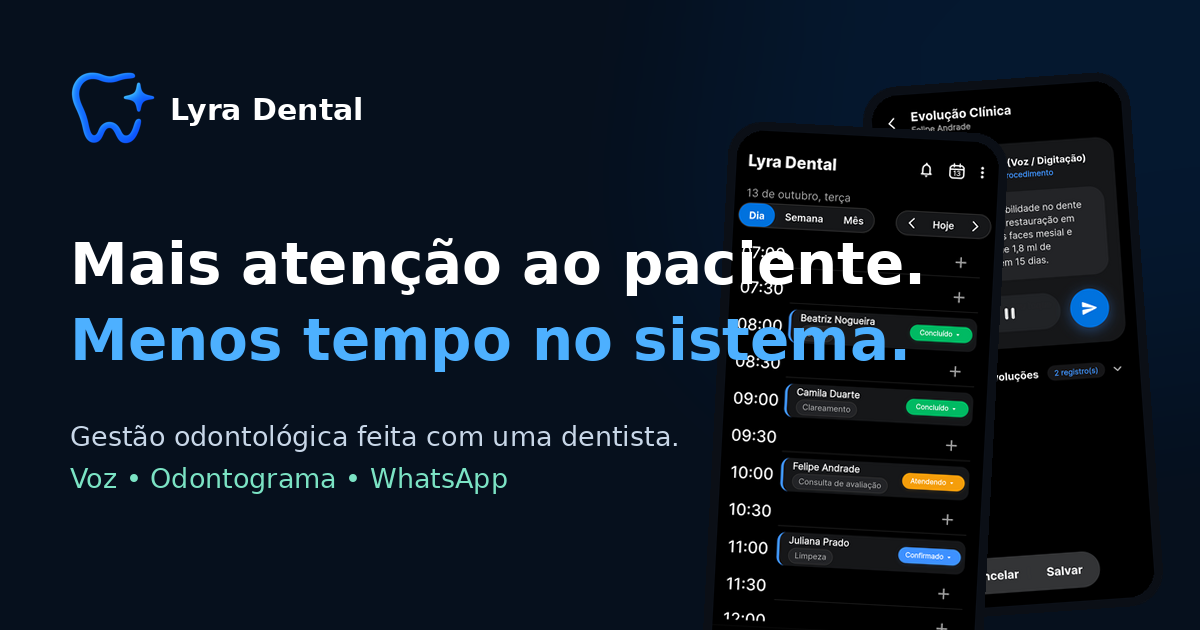
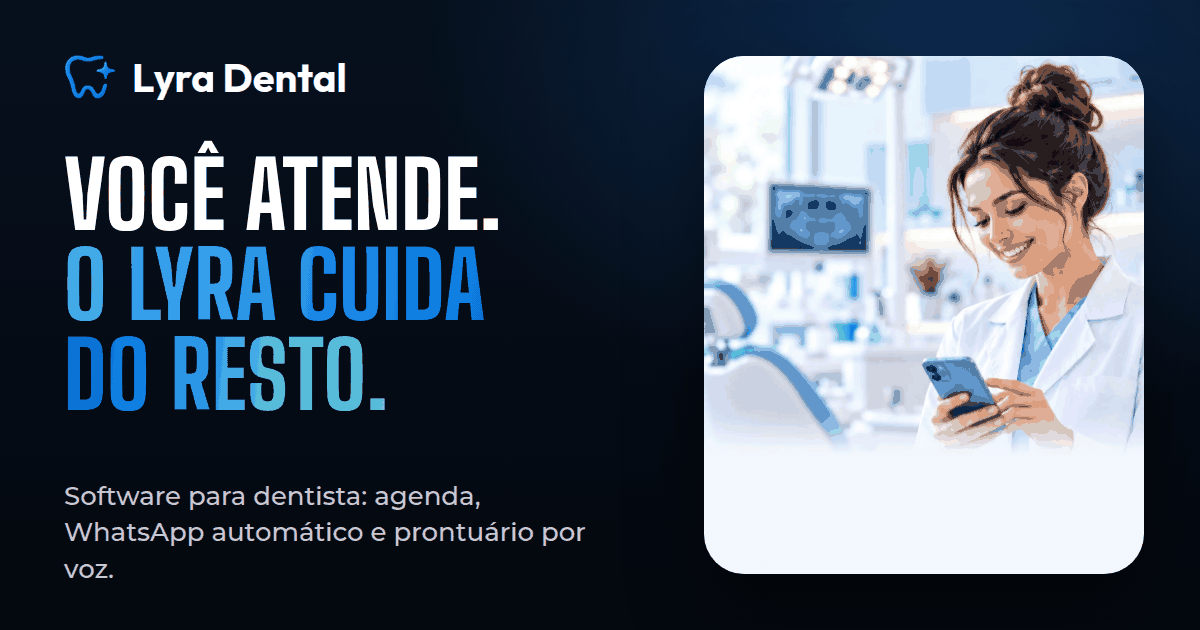
feat(landing): topo no padrão do app, carrossel das telas, textos para busca, imagem de compartilhamento e medição sem cookies

diff --git a/landing/index.html b/landing/index.html
@@ -3,12 +3,12 @@
 <head>
   <meta charset="utf-8" />
   <meta name="viewport" content="width=device-width, initial-scale=1" />
-  <title>Lyra Dental — Gestão odontológica feita com uma dentista</title>
-  <meta name="description" content="Agenda, prontuário, odontograma por voz e WhatsApp que responde por você. O Lyra Dental foi pensado por quem atende todos os dias no consultório." />
+  <title>Software para dentista com agenda e WhatsApp | Lyra Dental</title>
+  <meta name="description" content="App e software para dentista e clínicas odontológicas: agenda inteligente, WhatsApp automático e prontuário por voz. Gestão feita com uma dentista." />
   <meta name="theme-color" content="#06101d" />
   <meta property="og:type" content="website" />
-  <meta property="og:title" content="Lyra Dental — Gestão odontológica feita com uma dentista" />
-  <meta property="og:description" content="Mais atenção ao paciente, menos tempo no sistema. Registre a evolução falando e deixe o WhatsApp da clínica trabalhando por você." />
+  <meta property="og:title" content="Software para dentista com agenda e WhatsApp | Lyra Dental" />
+  <meta property="og:description" content="Você atende. O Lyra cuida do resto: agenda inteligente, WhatsApp automático e evolução clínica por voz, para dentistas e clínicas." />
   <link rel="canonical" href="https://www.getlyra.com.br/" />
   <meta property="og:url" content="https://www.getlyra.com.br/" />
   <meta property="og:locale" content="pt_BR" />
@@ -18,8 +18,9 @@
   <meta property="og:image:height" content="630" />
   <meta name="twitter:card" content="summary_large_image" />
   <meta name="twitter:image" content="https://www.getlyra.com.br/img/og.png" />
-  <script type="application/ld+json">{"@context": "https://schema.org", "@type": "SoftwareApplication", "name": "Lyra Dental", "applicationCategory": "BusinessApplication", "operatingSystem": "Android, Web", "description": "Agenda, prontuário, odontograma por voz e WhatsApp para clínicas odontológicas.", "url": "https://www.getlyra.com.br/", "inLanguage": "pt-BR"}</script>
+  <script type="application/ld+json">{"@context": "https://schema.org", "@type": "SoftwareApplication", "name": "Lyra Dental", "applicationCategory": "BusinessApplication", "operatingSystem": "Android, Web", "applicationSubCategory": "Software de gestão para dentistas e clínicas odontológicas", "description": "Software e app para dentista: agenda inteligente, WhatsApp automático, odontograma por voz e prontuário para clínicas odontológicas.", "url": "https://www.getlyra.com.br/", "inLanguage": "pt-BR"}</script>
   <link rel="icon" type="image/png" href="img/logo-icon.png" />
+  <link rel="preload" as="image" href="img/lyra-dentista.webp" fetchpriority="high" />
   <link rel="stylesheet" href="fonts.css" />
   <link rel="stylesheet" href="styles.css" />
 </head>
@@ -59,8 +60,8 @@
       <div class="container hero-grid">
         <div class="hero-copy reveal">
           <span class="selo"><i class="dot"></i> Pensado por dentista, para dentistas</span>
-          <h1 id="hero-titulo">Mais atenção ao paciente.<br /><span class="grad">Menos tempo no sistema.</span></h1>
-          <p class="lead">Registre a evolução e marque o odontograma <strong>falando</strong>, e deixe o WhatsApp da clínica confirmar horários e responder as dúvidas comuns. O Lyra foi feito com uma dentista, no consultório de verdade.</p>
+          <h1 id="hero-titulo">Você atende.<br /><span class="grad">O Lyra cuida do resto.</span></h1>
+          <p class="lead">Agenda, WhatsApp automático e prontuário por voz, em um só lugar. O Lyra foi feito com uma dentista, no consultório de verdade.</p>
           <div class="hero-cta">
             <a class="btn btn-lg" data-wa="Olá! Quero conhecer o Lyra Dental." href="#" target="_blank" rel="noopener">Quero conhecer o Lyra</a>
             <a class="btn btn-ghost btn-lg" href="#voz">Ver como funciona</a>
@@ -72,16 +73,24 @@
           </ul>
         </div>
 
-        <div class="hero-devices" aria-hidden="false">
-          <div class="phone phone-back parallax" data-speed="0.05">
-            <img src="img/app-voz.webp" alt="Tela de evolução clínica por voz do Lyra" width="640" height="1325" />
-          </div>
-          <div class="phone phone-front parallax" data-speed="0.12">
-            <img src="img/app-agenda.webp" alt="Agenda do Lyra no celular" width="640" height="1325" />
-          </div>
-          <div class="chip chip-voz"><span class="wave" aria-hidden="true"><i></i><i></i><i></i><i></i><i></i></span> “dente 16, restauração”</div>
-          <div class="chip chip-wa"><span class="ok">✓✓</span> Horário confirmado</div>
+        <div class="cena reveal" style="--d:.1s">
+          <img class="cena-foto" fetchpriority="high" decoding="async" src="img/lyra-dentista.webp" alt="Dentista sorrindo enquanto usa o Lyra no celular, em um consultório moderno" width="480" height="717" />
+          <span class="cena-chip c1"><svg viewBox="0 0 24 24" fill="none" stroke="#1F6BF2" stroke-width="2.4" stroke-linecap="round" stroke-linejoin="round" aria-hidden="true"><rect x="3.5" y="5" width="17" height="15.5" rx="3"/><path d="M8 2.8v4M16 2.8v4M8 13l2.6 2.6L16 10.5"/></svg></span>
+          <span class="cena-chip c2"><svg viewBox="0 0 24 24" fill="#25C060" aria-hidden="true"><path d="M17.472 14.382c-.297-.149-1.758-.867-2.03-.967-.273-.099-.471-.148-.67.15-.197.297-.767.966-.94 1.164-.173.199-.347.223-.644.075-.297-.15-1.255-.463-2.39-1.475-.883-.788-1.48-1.761-1.653-2.059-.173-.297-.018-.458.13-.606.134-.133.298-.347.446-.52.149-.174.198-.298.298-.497.099-.198.05-.371-.025-.52-.075-.149-.669-1.612-.916-2.207-.242-.579-.487-.5-.669-.51-.173-.008-.371-.01-.57-.01-.198 0-.52.074-.792.372-.272.297-1.04 1.016-1.04 2.479 0 1.462 1.065 2.875 1.213 3.074.149.198 2.096 3.2 5.077 4.487.709.306 1.262.489 1.694.625.712.227 1.36.195 1.871.118.571-.085 1.758-.719 2.006-1.413.248-.694.248-1.289.173-1.413-.074-.124-.272-.198-.57-.347m-5.421 7.403h-.004a9.87 9.87 0 01-5.031-1.378l-.361-.214-3.741.982.998-3.648-.235-.374a9.86 9.86 0 01-1.51-5.26c.001-5.45 4.436-9.884 9.888-9.884 2.64 0 5.122 1.03 6.988 2.898a9.825 9.825 0 012.893 6.994c-.003 5.45-4.437 9.884-9.885 9.884m8.413-18.297A11.815 11.815 0 0012.05 0C5.495 0 .16 5.335.157 11.892c0 2.096.547 4.142 1.588 5.945L0 24l6.335-1.662c1.72.94 3.659 1.437 5.634 1.437h.005c6.554 0 11.89-5.335 11.893-11.893a11.821 11.821 0 00-3.48-8.413z"/></svg></span>
+          <span class="cena-chip c3"><svg viewBox="0 0 24 24" fill="none" stroke="#1F6BF2" stroke-width="2.2" stroke-linecap="round" stroke-linejoin="round" aria-hidden="true"><path d="M7 3C4.7 3 3 4.9 3 8.1c0 3.4 1.3 6.2 2.2 9.8.7 2.7 2.4 3 3.5.8 1-2 1.7-5.7 3.3-5.7s2.3 3.7 3.3 5.7c1.1 2.2 2.8 1.9 3.5-.8.9-3.6 2.2-6.4 2.2-9.8C21 4.9 19.3 3 17 3c-2 0-3.1 1.4-3.8 2-.7-.6-1.9-2-3.8-2H7Z"/></svg></span>
+          <span class="cena-audio" aria-hidden="true"><b><svg viewBox="0 0 24 24"><path fill="#fff" d="M7 4.5v15a1 1 0 001.5.9l12-7.5a1 1 0 000-1.7l-12-7.5A1 1 0 007 4.5z"/></svg></b><span class="barras"><i style="height:5px"></i><i style="height:10px"></i><i style="height:15px"></i><i style="height:8px"></i><i style="height:13px"></i><i style="height:18px"></i><i style="height:11px"></i><i style="height:6px"></i><i style="height:14px"></i><i style="height:9px"></i><i style="height:5px"></i></span><small>0:16</small></span>
         </div>
+      </div>
+
+      <div class="container destaques" aria-label="O que o Lyra faz por você">
+        <article class="dest"><span class="dest-ico verde"><svg viewBox="0 0 24 24" fill="#fff" aria-hidden="true"><path d="M17.472 14.382c-.297-.149-1.758-.867-2.03-.967-.273-.099-.471-.148-.67.15-.197.297-.767.966-.94 1.164-.173.199-.347.223-.644.075-.297-.15-1.255-.463-2.39-1.475-.883-.788-1.48-1.761-1.653-2.059-.173-.297-.018-.458.13-.606.134-.133.298-.347.446-.52.149-.174.198-.298.298-.497.099-.198.05-.371-.025-.52-.075-.149-.669-1.612-.916-2.207-.242-.579-.487-.5-.669-.51-.173-.008-.371-.01-.57-.01-.198 0-.52.074-.792.372-.272.297-1.04 1.016-1.04 2.479 0 1.462 1.065 2.875 1.213 3.074.149.198 2.096 3.2 5.077 4.487.709.306 1.262.489 1.694.625.712.227 1.36.195 1.871.118.571-.085 1.758-.719 2.006-1.413.248-.694.248-1.289.173-1.413-.074-.124-.272-.198-.57-.347m-5.421 7.403h-.004a9.87 9.87 0 01-5.031-1.378l-.361-.214-3.741.982.998-3.648-.235-.374a9.86 9.86 0 01-1.51-5.26c.001-5.45 4.436-9.884 9.888-9.884 2.64 0 5.122 1.03 6.988 2.898a9.825 9.825 0 012.893 6.994c-.003 5.45-4.437 9.884-9.885 9.884m8.413-18.297A11.815 11.815 0 0012.05 0C5.495 0 .16 5.335.157 11.892c0 2.096.547 4.142 1.588 5.945L0 24l6.335-1.662c1.72.94 3.659 1.437 5.634 1.437h.005c6.554 0 11.89-5.335 11.893-11.893a11.821 11.821 0 00-3.48-8.413z"/></svg></span><div><h3>WhatsApp automático</h3><p>Confirmações, lembretes e pós-consulta automáticos, mesmo com você atendendo.</p></div></article>
+        <article class="dest"><span class="dest-ico"><svg viewBox="0 0 24 24" fill="none" stroke="#fff" stroke-width="2.4" stroke-linecap="round" stroke-linejoin="round" aria-hidden="true"><rect x="3.5" y="5" width="17" height="15.5" rx="3"/><path d="M8 2.8v4M16 2.8v4"/></svg></span><div><h3>Agenda inteligente</h3><p>Visualize, organize e gerencie sua agenda de forma rápida e intuitiva.</p></div></article>
+        <article class="dest"><span class="dest-ico"><img src="img/lyra-dentes.png" alt="" width="240" height="143" loading="lazy" /></span><div><h3>Odontograma por voz</h3><p>Marque dentes e procedimentos só falando, sem tirar as luvas. Histórico completo, visual e simples.</p></div></article>
+        <article class="dest"><span class="dest-ico"><svg viewBox="0 0 24 24" fill="#fff" aria-hidden="true"><rect x="3" y="10" width="2.6" height="4" rx="1.3"/><rect x="7.2" y="6" width="2.6" height="12" rx="1.3"/><rect x="11.4" y="3" width="2.6" height="18" rx="1.3"/><rect x="15.6" y="7" width="2.6" height="10" rx="1.3"/><rect x="19.8" y="10.5" width="2.2" height="3" rx="1.1"/></svg></span><div><h3>Evolução com IA</h3><p>Fale e a IA transforma sua voz em evolução clínica completa e organizada.</p></div></article>
+      </div>
+
+      <div class="container beneficios">
+        <span>Desenvolvido por dentistas</span><span>Dados protegidos</span><span>Suporte pelo WhatsApp</span>
       </div>
     </section>
 
@@ -164,7 +173,7 @@
           <p class="nota nota-wa">Exemplo ilustrativo de conversa.</p>
         </div>
         <div class="reveal" style="--d:.1s">
-          <span class="eyebrow">WhatsApp inteligente</span>
+          <span class="eyebrow">Automação de agenda e WhatsApp</span>
           <h2 id="wa-titulo">Uma clínica que responde,<br />mesmo quando você está atendendo.</h2>
           <p class="lead">Cadastre horários, endereço, convênios e formas de pagamento. O Lyra usa os dados da sua clínica para responder as perguntas mais comuns e chama a sua equipe quando precisa de uma pessoa.</p>
           <ul class="checks">
@@ -181,7 +190,7 @@
     <section class="secao" id="recursos" aria-labelledby="rec-titulo">
       <div class="container">
         <div class="titulo-centro reveal">
-          <span class="eyebrow">Tudo conectado</span>
+          <span class="eyebrow">Software de gestão para clínicas</span>
           <h2 id="rec-titulo">Da primeira mensagem ao prontuário.</h2>
           <p class="lead">Uma visão completa da clínica, sem menus intermináveis e sem perder tempo procurando informação.</p>
         </div>
@@ -197,12 +206,17 @@
           <button type="button" data-tema="escuro" aria-pressed="true">Escuro</button>
           <button type="button" data-tema="claro" aria-pressed="false">Claro</button>
         </div>
-        <div class="telas reveal" id="telas" aria-label="Telas do aplicativo">
+        <div class="carrossel reveal" role="region" aria-roledescription="carrossel" aria-label="Telas do aplicativo">
+          <button class="car-btn prev" type="button" aria-label="Tela anterior"><svg viewBox="0 0 24 24" aria-hidden="true"><path d="M15 5l-7 7 7 7" fill="none" stroke="currentColor" stroke-width="2.6" stroke-linecap="round" stroke-linejoin="round"/></svg></button>
+        <div class="telas" id="telas" tabindex="0" aria-label="Telas do aplicativo">
           <figure class="phone mini"><img src="img/app-paciente.webp" alt="Ficha do paciente no Lyra" loading="lazy" width="640" height="1325" /><figcaption>Ficha do paciente</figcaption></figure>
           <figure class="phone mini"><img src="img/app-agenda.webp" alt="Agenda do Lyra" loading="lazy" width="640" height="1325" /><figcaption>Agenda</figcaption></figure>
           <figure class="phone mini"><img src="img/app-odontograma.webp" alt="Odontograma do Lyra" loading="lazy" width="640" height="1325" /><figcaption>Odontograma</figcaption></figure>
           <figure class="phone mini"><img src="img/app-voz.webp" alt="Evolução por voz do Lyra" loading="lazy" width="640" height="1325" /><figcaption>Evolução por voz</figcaption></figure>
           <figure class="phone mini"><img src="img/app-whatsapp.webp" alt="Respostas automáticas do WhatsApp no Lyra" loading="lazy" width="640" height="1325" /><figcaption>WhatsApp</figcaption></figure>
+        </div>
+          <button class="car-btn next" type="button" aria-label="Próxima tela"><svg viewBox="0 0 24 24" aria-hidden="true"><path d="M9 5l7 7-7 7" fill="none" stroke="currentColor" stroke-width="2.6" stroke-linecap="round" stroke-linejoin="round"/></svg></button>
+          <div class="car-dots" role="tablist" aria-label="Escolher tela"></div>
         </div>
       </div>
     </section>
@@ -231,6 +245,8 @@
           <p class="lead">Respostas diretas, sem enrolação.</p>
         </div>
         <div class="faq-list reveal" style="--d:.1s">
+          <details><summary>O que é o Lyra Dental?</summary><p>É um software e app de gestão para dentistas e clínicas odontológicas: agenda inteligente, WhatsApp automático para confirmar consultas, odontograma e evolução clínica por voz, tudo em um só lugar.</p></details>
+          <details><summary>O Lyra automatiza a agenda do consultório?</summary><p>Ele confirma e lembra os pacientes pelo WhatsApp. No lembrete vai um link em que o paciente confirma, pede para remarcar ou cancela, e você vê o resultado na agenda e recebe o aviso no app.</p></details>
           <details><summary>Preciso instalar alguma coisa?</summary><p>Hoje o Lyra tem aplicativo para Android e uma versão web, que funciona no navegador do computador.</p></details>
           <details><summary>Tem versão para iPhone?</summary><p>Ainda não. Está nos nossos planos, mas sem data definida.</p></details>
           <details><summary>O Lyra funciona sem internet?</summary><p>Não. O Lyra funciona na nuvem e precisa de conexão. Em troca, seus dados ficam sempre atualizados no celular e no computador.</p></details>
@@ -268,5 +284,8 @@
   </footer>
 
   <script src="script.js"></script>
+  <!-- Medição de visitas sem cookies (ligar "Web Analytics" no painel da Vercel) -->
+  <script>window.va=window.va||function(){(window.vaq=window.vaq||[]).push(arguments)};</script>
+  <script defer src="/_vercel/insights/script.js"></script>
 </body>
 </html>

diff --git a/landing/styles.css b/landing/styles.css
@@ -35,8 +35,8 @@ p{margin:0 0 1rem}
 .site-header.rolou{background:rgba(6,16,29,.82);backdrop-filter:blur(14px);-webkit-backdrop-filter:blur(14px);box-shadow:0 1px 0 rgba(255,255,255,.07)}
 .nav-wrap{display:flex;align-items:center;justify-content:space-between;height:70px}
 .brand{display:inline-flex;align-items:center;gap:.6rem;text-decoration:none;color:#fff}
-.brand-name{font-size:1.18rem;font-weight:500;letter-spacing:.2px}
-.brand-name strong{font-weight:800}
+.brand-name{font-family:'Outfit','Montserrat',system-ui,sans-serif;font-size:1.3rem;font-weight:700;letter-spacing:-.02em}
+.brand-name strong{font-weight:700}
 .main-nav{display:flex;align-items:center;gap:1.5rem}
 .main-nav a:not(.btn){color:rgba(255,255,255,.82);text-decoration:none;font-size:.9rem;font-weight:500;transition:color .2s}
 .main-nav a:not(.btn):hover{color:#fff}
@@ -242,3 +242,66 @@ p{margin:0 0 1rem}
 .tema-toggle button[aria-pressed="true"]{background:#fff;color:var(--ink,#122033);box-shadow:0 2px 8px rgba(18,32,51,.12)}
 .tema-toggle button:focus-visible{outline:2px solid var(--blue,#0072de);outline-offset:2px}
 .telas{margin-top:48px}
+
+
+/* ===== Topo no padrão da primeira tela do app (cena com a dentista, cartões e benefícios) ===== */
+.cena{position:relative;border-radius:36px;background:linear-gradient(#f7fbfe,#f1f7fd);overflow:hidden;aspect-ratio:480/500;box-shadow:0 30px 70px rgba(0,0,0,.4)}
+.cena-foto{position:absolute;right:-4%;top:-3%;width:104%;height:auto;max-width:none}
+.cena-chip{position:absolute;width:clamp(44px,9%,62px);aspect-ratio:1;border-radius:50%;background:#fff;display:grid;place-items:center;box-shadow:0 10px 22px rgba(59,111,182,.22)}
+.cena-chip svg{width:48%;height:48%}
+.cena-chip.c1{left:34%;top:16%}
+.cena-chip.c2{left:30%;top:34%}
+.cena-chip.c3{left:37%;top:52%}
+.cena-audio{position:absolute;right:5%;bottom:9%;display:flex;align-items:center;gap:7px;background:#fff;border-radius:999px;padding:6px 12px 6px 6px;box-shadow:0 10px 22px rgba(59,111,182,.22)}
+.cena-audio b{width:34px;height:34px;border-radius:50%;background:#1f6bf2;display:grid;place-items:center}
+.cena-audio b svg{width:15px;height:15px}
+.cena-audio .barras{display:flex;align-items:center;gap:2px}
+.cena-audio .barras i{display:block;width:2.4px;border-radius:2px;background:#1f6bf2}
+.cena-audio small{color:#64748b;font-size:.72rem;font-weight:600}
+.destaques{position:relative;display:grid;grid-template-columns:repeat(4,1fr);gap:16px;margin-top:56px}
+.dest{display:flex;gap:14px;align-items:center;background:#fff;color:var(--ink);border-radius:26px;padding:16px 18px;box-shadow:0 18px 40px -22px rgba(0,0,0,.5)}
+.dest h3{margin:0 0 3px;font-size:1rem;font-weight:800}
+.dest p{margin:0;font-size:.82rem;line-height:1.4;color:var(--muted)}
+.dest-ico{flex:none;width:56px;height:56px;border-radius:50%;display:grid;place-items:center;background:linear-gradient(135deg,#1f86f0,#0072de)}
+.dest-ico.verde{background:linear-gradient(135deg,#2edb72,#0e9f4a)}
+.dest-ico svg{width:46%;height:46%}
+.dest-ico img{width:66%;height:auto}
+.beneficios{position:relative;display:flex;flex-wrap:wrap;justify-content:center;gap:10px 28px;margin-top:22px;padding:14px 20px;border-radius:999px;background:rgba(255,255,255,.08);box-shadow:inset 0 0 0 1px rgba(255,255,255,.14);font-size:.86rem;font-weight:700;color:rgba(255,255,255,.88)}
+.beneficios span::before{content:"✓";color:var(--mint);margin-right:.5rem;font-weight:800}
+@media (max-width:980px){
+  .destaques{grid-template-columns:repeat(2,1fr)}
+  .cena{max-width:520px;margin-inline:auto;width:100%}
+}
+@media (max-width:620px){
+  .destaques{grid-template-columns:1fr;margin-top:40px}
+  .beneficios{border-radius:26px;flex-direction:column;align-items:flex-start}
+}
+
+
+/* ===== Carrossel das telas do app ===== */
+.carrossel{position:relative;margin-top:56px}
+.telas{display:flex;flex-wrap:nowrap;justify-content:flex-start;gap:26px;margin:0;padding:26px calc(50% - 107px) 64px;overflow-x:auto;scroll-snap-type:x mandatory;scroll-behavior:smooth;scrollbar-width:none;-webkit-overflow-scrolling:touch;outline-offset:-4px}
+.telas::-webkit-scrollbar{display:none}
+.phone.mini{flex:none;width:214px;scroll-snap-align:center;transform:scale(.86);opacity:.55;transition:transform .45s var(--ease),opacity .45s}
+.phone.mini:nth-child(odd){transform:scale(.86)}
+.phone.mini.ativa{transform:scale(1);opacity:1}
+.phone.mini:hover{transform:scale(.9)}
+.phone.mini.ativa:hover{transform:scale(1.02)}
+.phone.mini figcaption{bottom:-36px;font-size:.9rem;color:var(--ink)}
+.car-btn{position:absolute;top:44%;z-index:3;width:48px;height:48px;border-radius:50%;border:0;background:#fff;color:var(--blue);display:grid;place-items:center;cursor:pointer;box-shadow:0 10px 26px rgba(18,32,51,.22);transition:transform .2s,background .2s}
+.car-btn:hover{transform:scale(1.08);background:#f0f7ff}
+.car-btn svg{width:22px;height:22px}
+.car-btn.prev{left:max(8px,calc(50% - 330px))}
+.car-btn.next{right:max(8px,calc(50% - 330px))}
+.car-dots{display:flex;justify-content:center;gap:9px;margin-top:6px}
+.car-dots button{width:9px;height:9px;padding:0;border:0;border-radius:99px;background:#c5d3e2;cursor:pointer;transition:width .3s,background .3s}
+.car-dots button[aria-selected="true"]{width:26px;background:var(--blue)}
+@media (max-width:720px){
+  .telas{padding-inline:calc(50% - 38vw);gap:16px}
+  .phone.mini{width:76vw;max-width:260px}
+  .car-btn{width:40px;height:40px}
+  .car-btn.prev{left:4px}.car-btn.next{right:4px}
+}
+@media (prefers-reduced-motion:reduce){.telas{scroll-behavior:auto}.phone.mini{transition:none}}
+.telas{-webkit-mask-image:linear-gradient(90deg,transparent,#000 7%,#000 93%,transparent);mask-image:linear-gradient(90deg,transparent,#000 7%,#000 93%,transparent)}
+.phone.mini{filter:drop-shadow(0 18px 18px rgba(18,32,51,.18))}

diff --git a/landing/script.js b/landing/script.js
@@ -182,3 +182,79 @@ if (!reduzMovimento) {
   };
   botoes.forEach((b) => b.addEventListener('click', () => trocar(b.dataset.tema)));
 })();
+
+
+// Carrossel das telas do app: setas, pontos, arrastar e passar sozinho (pausa ao tocar ou passar o mouse)
+(function carrosselDasTelas() {
+  const pista = document.getElementById('telas');
+  if (!pista) return;
+  const slides = [...pista.querySelectorAll('figure')];
+  const raiz = pista.closest('.carrossel');
+  const pontos = raiz.querySelector('.car-dots');
+  const reduz = window.matchMedia('(prefers-reduced-motion: reduce)').matches;
+  let atual = 0, pausado = false, visivel = false, timer = null;
+
+  slides.forEach((fig, i) => {
+    const b = document.createElement('button');
+    b.type = 'button';
+    b.setAttribute('role', 'tab');
+    b.setAttribute('aria-label', 'Ir para: ' + (fig.querySelector('figcaption')?.textContent || 'tela ' + (i + 1)));
+    b.addEventListener('click', () => ir(i));
+    pontos.appendChild(b);
+  });
+
+  const marcar = (i) => {
+    atual = i;
+    slides.forEach((s, k) => s.classList.toggle('ativa', k === i));
+    [...pontos.children].forEach((b, k) => b.setAttribute('aria-selected', String(k === i)));
+  };
+  const ir = (i) => {
+    const alvo = slides[(i + slides.length) % slides.length];
+    pista.scrollTo({ left: alvo.offsetLeft - (pista.clientWidth - alvo.offsetWidth) / 2, behavior: reduz ? 'auto' : 'smooth' });
+  };
+  const maisProximo = () => {
+    const centro = pista.scrollLeft + pista.clientWidth / 2;
+    let melhor = 0, dist = Infinity;
+    slides.forEach((s, k) => {
+      const d = Math.abs(s.offsetLeft + s.offsetWidth / 2 - centro);
+      if (d < dist) { dist = d; melhor = k; }
+    });
+    return melhor;
+  };
+  let raf = 0;
+  pista.addEventListener('scroll', () => {
+    cancelAnimationFrame(raf);
+    raf = requestAnimationFrame(() => { const i = maisProximo(); if (i !== atual) marcar(i); });
+  }, { passive: true });
+
+  raiz.querySelector('.prev').addEventListener('click', () => ir(atual - 1));
+  raiz.querySelector('.next').addEventListener('click', () => ir(atual + 1));
+  pista.addEventListener('keydown', (e) => {
+    if (e.key === 'ArrowLeft') { e.preventDefault(); ir(atual - 1); }
+    if (e.key === 'ArrowRight') { e.preventDefault(); ir(atual + 1); }
+  });
+
+  const parar = () => { clearInterval(timer); timer = null; };
+  const tocar = () => {
+    if (reduz || pausado || !visivel || timer) return;
+    timer = setInterval(() => ir(atual + 1), 4500);
+  };
+  const pausa = () => { pausado = true; parar(); };
+  const retoma = () => { pausado = false; tocar(); };
+  ['mouseenter', 'focusin', 'touchstart', 'pointerdown'].forEach((ev) => raiz.addEventListener(ev, pausa, { passive: true }));
+  ['mouseleave', 'focusout'].forEach((ev) => raiz.addEventListener(ev, retoma));
+  raiz.addEventListener('touchend', () => setTimeout(retoma, 6000), { passive: true });
+  if ('IntersectionObserver' in window) {
+    new IntersectionObserver(([e]) => { visivel = e.isIntersecting; visivel ? tocar() : parar(); }, { threshold: 0.4 }).observe(raiz);
+  }
+
+  // começa pela tela do meio (Odontograma), sem animar
+  requestAnimationFrame(() => {
+    const meio = Math.floor(slides.length / 2);
+    const alvo = slides[meio];
+    pista.style.scrollBehavior = 'auto';
+    pista.scrollLeft = alvo.offsetLeft - (pista.clientWidth - alvo.offsetWidth) / 2;
+    pista.style.scrollBehavior = '';
+    marcar(meio);
+  });
+})();

diff --git a/landing/fonts.css b/landing/fonts.css
@@ -11,4 +11,4 @@
 @font-face{font-family:'Montserrat';font-style:normal;font-weight:700;font-display:swap;src:url('fonts/Montserrat-700-latin-ext.woff2') format('woff2');unicode-range:U+0100-02BA, U+02BD-02C5, U+02C7-02CC, U+02CE-02D7, U+02DD-02FF, U+0304, U+0308, U+0329, U+1D00-1DBF, U+1E00-1E9F, U+1EF2-1EFF, U+2020, U+20A0-20AB, U+20AD-20C4, U+2113, U+2C60-2C7F, U+A720-A7FF}
 @font-face{font-family:'Montserrat';font-style:normal;font-weight:700;font-display:swap;src:url('fonts/Montserrat-700-latin.woff2') format('woff2');unicode-range:U+0000-00FF, U+0131, U+0152-0153, U+02BB-02BC, U+02C6, U+02DA, U+02DC, U+0304, U+0308, U+0329, U+2000-206F, U+20AC, U+2122, U+2191, U+2193, U+2212, U+2215, U+FEFF, U+FFFD}
 @font-face{font-family:'Montserrat';font-style:normal;font-weight:800;font-display:swap;src:url('fonts/Montserrat-800-latin-ext.woff2') format('woff2');unicode-range:U+0100-02BA, U+02BD-02C5, U+02C7-02CC, U+02CE-02D7, U+02DD-02FF, U+0304, U+0308, U+0329, U+1D00-1DBF, U+1E00-1E9F, U+1EF2-1EFF, U+2020, U+20A0-20AB, U+20AD-20C4, U+2113, U+2C60-2C7F, U+A720-A7FF}
-@font-face{font-family:'Montserrat';font-style:normal;font-weight:800;font-display:swap;src:url('fonts/Montserrat-800-latin.woff2') format('woff2');unicode-range:U+0000-00FF, U+0131, U+0152-0153, U+02BB-02BC, U+02C6, U+02DA, U+02DC, U+0304, U+0308, U+0329, U+2000-206F, U+20AC, U+2122, U+2191, U+2193, U+2212, U+2215, U+FEFF, U+FFFD}
+@font-face{font-family:'Montserrat';font-style:normal;font-weight:800;font-display:swap;src:url('fonts/Montserrat-800-latin.woff2') format('woff2');unicode-range:U+0000-00FF, U+0131, U+0152-0153, U+02BB-02BC, U+02C6, U+02DA, U+02DC, U+0304, U+0308, U+0329, U+2000-206F, U+20AC, U+2122, U+2191, U+2193, U+2212, U+2215, U+FEFF, U+FFFD}@font-face{font-family:'Outfit';font-style:normal;font-weight:400 700;font-display:swap;src:url('fonts/Outfit-latin.woff2') format('woff2');unicode-range:U+0000-00FF,U+0131,U+0152-0153,U+02BB-02BC,U+02C6,U+02DA,U+02DC,U+2000-206F,U+20AC,U+2122,U+2191,U+2193,U+2212,U+2215,U+FEFF,U+FFFD}

diff --git a/landing/privacidade.html b/landing/privacidade.html
@@ -17,10 +17,14 @@
         th { background:#f5f7fa; }
         .nota { background:#eef6ff; border-left:4px solid #0072de; padding:12px 16px; border-radius:8px; }
         .footer { margin-top:36px; border-top:1px solid #e1e4e8; padding-top:18px; font-size:0.85rem; color:#5a6472; }
+            @font-face { font-family:'Outfit'; font-weight:700; font-display:swap; src:url('fonts/Outfit-latin.woff2') format('woff2'); }
+        .marca { display:flex; align-items:center; gap:10px; margin-bottom:22px; font-family:'Outfit',sans-serif; font-weight:700; font-size:1.5rem; letter-spacing:-.02em; color:#0f172a; }
+        .marca img { width:36px; height:auto; }
     </style>
 </head>
 <body>
     <div class="container">
+        <div class="marca"><img src="img/logo-icon.png" alt=""><span>Lyra Dental</span></div>
         <p><a href="index.html">← Voltar ao site</a></p>
         <h1>Política de Privacidade - Lyra Dental</h1>
         <p><em>Última atualização: 13 de outubro de 2026</em></p>

diff --git a/landing/excluir-conta.html b/landing/excluir-conta.html
@@ -17,10 +17,14 @@
         th { background:#f5f7fa; }
         .nota { background:#eef6ff; border-left:4px solid #0072de; padding:12px 16px; border-radius:8px; }
         .footer { margin-top:36px; border-top:1px solid #e1e4e8; padding-top:18px; font-size:0.85rem; color:#5a6472; }
+            @font-face { font-family:'Outfit'; font-weight:700; font-display:swap; src:url('fonts/Outfit-latin.woff2') format('woff2'); }
+        .marca { display:flex; align-items:center; gap:10px; margin-bottom:22px; font-family:'Outfit',sans-serif; font-weight:700; font-size:1.5rem; letter-spacing:-.02em; color:#0f172a; }
+        .marca img { width:36px; height:auto; }
     </style>
 </head>
 <body>
     <div class="container">
+        <div class="marca"><img src="img/logo-icon.png" alt=""><span>Lyra Dental</span></div>
         <p><a href="index.html">← Voltar ao site</a></p>
         <h1>Como excluir minha conta - Lyra Dental</h1>
         <p><em>Aplicativo: Lyra Dental (br.com.odontoapp)</em></p>

diff --git a/landing/LEIA-ME.md b/landing/LEIA-ME.md
@@ -1,0 +1,9 @@
+# Landing do Lyra Dental
+
+Página única (HTML/CSS/JS puro, sem bibliotecas e sem rastreadores). Abra `index.html` no navegador para ver.
+
+- **WhatsApp dos botões:** troque o número em `script.js` (`LYRA_CONFIG.whatsapp`, só dígitos, com 55).
+- **Prints do app:** substitua os arquivos em `img/` (`app-agenda.png`, `app-voz.png`, `app-odontograma.png`, `app-whatsapp.png`, proporção ~ 9:19,5).
+  **Use apenas prints do app de teste, com dados fictícios. Nunca dados reais de pacientes.**
+- **Fontes:** estão na própria pasta (`fonts/`), então a página não chama o Google.
+- **Antes de publicar:** a cobrança e o teste grátis precisam estar prontos; hoje os botões levam ao WhatsApp, não ao app.
